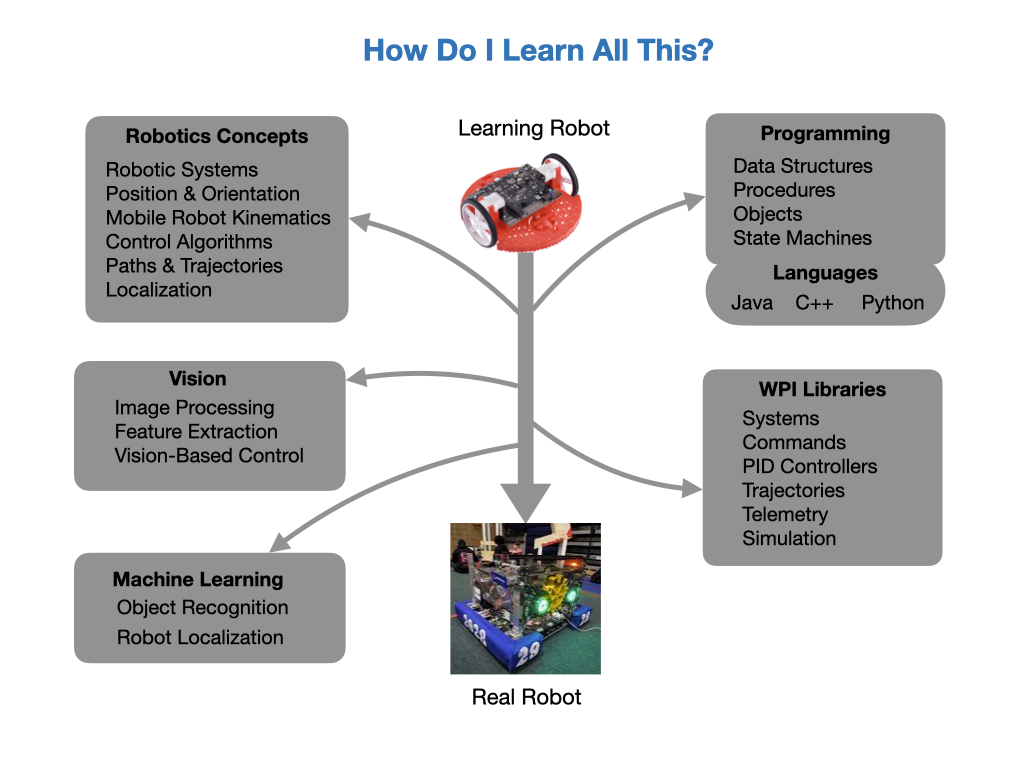
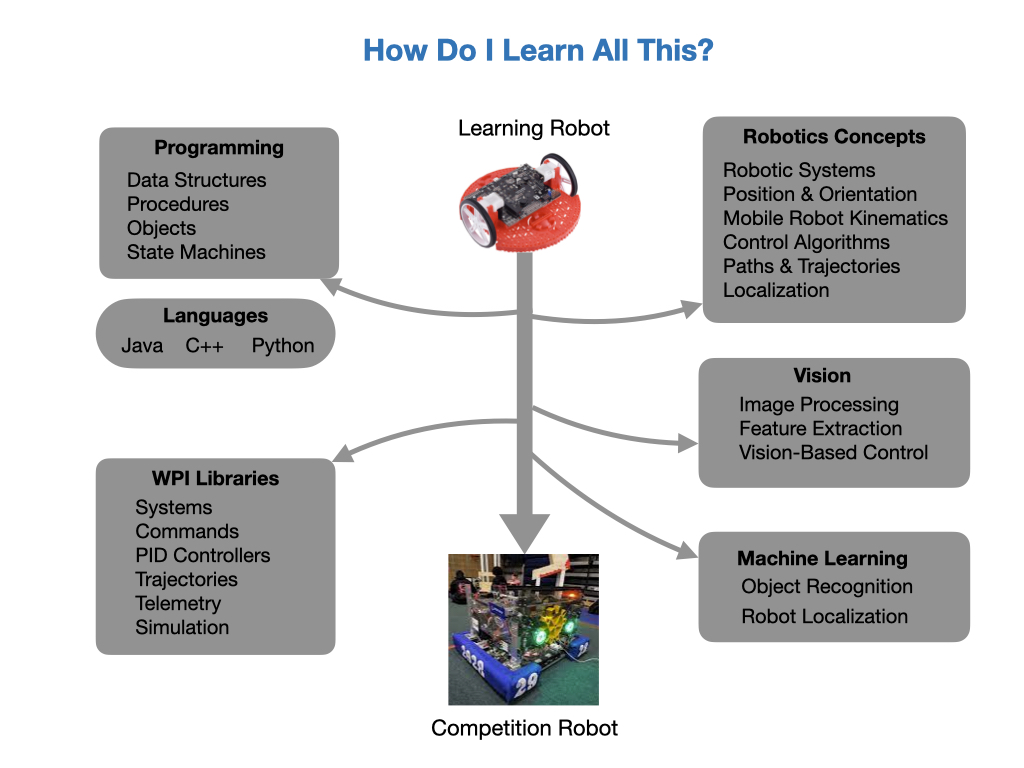
Course intro first draft

diff --git a/FRC-Tutorials/docs/Tutorials/courseOutline.md b/FRC-Tutorials/docs/Tutorials/courseOutline.md
@@ -3,14 +3,14 @@
 
 *FIRST For Inspiration and Recognition of Science and Technology*
 
-This course is about programming a robot to compete in the FIRST Robotics Competition.  The mechanical and electrical teams will design and build the physical robot and it's our job as a member of the programming team to get it to do something.  Without us, the robot will be sitting in the middle of the game field doing nothing.
+This course is about programming a robot that will compete in the FIRST Robotics Competition.  The mechanical and electrical teams will design and build the physical robot and it's our job as a member of the programming team to get it to do something.  Without us, the robot will be sitting in the middle of the game field doing nothing.
 
-The FIRST Robotics Competition (FRC) is setup as a large sporting event. So there are cheering crowds, match commentators, and large event screens that display the game scores and team rankings. The event is also filmed and streamed live out onto the Internet.  Teams compete in the specially constructed arena about the size of a basketball court and the goal is to score as many points as possible while at the same time preventing the other team from scoring.  The key difference is that instead of human players on the game field you have robots.  Each team gets to bring one custom built robot to the competition together with a driver and pit crew. It's similar to Formula One racing where you have a driver, and pit crew that maintains and fixes the robot between matches. It's not a gentle sport, robots are crashing into one another all the time both intentionally and unintentionally.  The robot is designed specifically to navigate the obstacles on the field manipulate the game pieces. The obstacles, game pieces and rules of the game change every year, so teams need to design and build a new robot each season.
+The FIRST Robotics Competition (FRC) is setup as a large sporting event. So there are cheering crowds, match commentators, and large event screens that display the game scores and team rankings. The event is also filmed and streamed live out onto the Internet.  Teams compete in the specially constructed arena that is about the size of a basketball court, with the goal of scoring as many points as possible while at the same time preventing the other team from scoring.  The key difference is that instead of having human players on the game field you have robots.  Each team gets to bring one custom built robot to the competition together with a driver and pit crew. It's similar to Formula One racing where you have a driver, and a pit crew that maintains and fixes the robot between matches. It's not a gentle sport, robots are crashing into one another all the time both intentionally and unintentionally.  The robot is designed specifically to navigate the obstacles on the field manipulate the game pieces. The obstacles, game pieces and rules of the game change every year, so teams need to design and build a new robot each season.
 
 The FIRST organization is world wide and its purpose is to inspire young people to enter the field of science and technology.  Instead of competing with a ball you're competing with math, science, and technology.  There are a lot of kids that aspire to be a professional sports players but only a very few can make it.  But to quote Dean Kaman, the founder of FIRST Robotics, *"FIRST Robotics is like a sport where everyone can turn pro"*.  
 
 ## Robots from a Programming Perspective
-A robot is a machine that senses and interacts with its environment.  Most robots will accept commands that tell it what tasks are to be completed. From a programming perspective you can think of a robot as a data driven machine.  Data is constantly being fed into it from onboard sensors, and command input devices such as game controllers.  The internal brain of the robot, which is usually some kind of *Single Board Computer (SBC)*, will interpret the data and make a decision on what to do.  Often, that decision is to make a movement that interacts with its surroundings.  That can mean moving forward several meters or perhaps picking up an object that is in front of it.
+A robot is a machine that senses and interacts with its environment.  Most robots will accept commands that tell it what tasks are to be completed. From a programming perspective you can think of a robot as a data driven machine.  Data is constantly being fed into it from onboard sensors that are detecting the world around it and from command input devices such as game controllers.  The internal brain of the robot, which is usually some kind of *Single Board Computer (SBC)*, will interpret the data and make a decision as to what to do next.  Often, that decision is to carry out a motion that interacts with its surroundings.  That may be moving forward several meters or perhaps picking up an object that is in front of it.  As it moves through the environment it's also getting data from internal sensors that tell it where it is what direction it's facing.
 
 ![Data Driven Machines](../images/CourseIntroduction/CourseIntroduction.001.jpeg)
 
@@ -20,12 +20,38 @@ So what do you need to learn in order to effectively program the robot for compe
 
 ![Need to Learn](../images/CourseIntroduction/CourseIntroduction.002.jpeg)
 
+## How do I Learn all this?
+When you're learning a new subject, especially one that has a lot of parts to it, you need to have a plan.  Our team has put together a set of lessons that will take you step-by-step through what you need to know to program the robot.  We're constantly adding to the lessons so if you're here for multiple seasons you'll learn more and more about robotics.  You'll go through the learning path multiple times, each time getting a better understanding of how things work.
 
 ![How to Learn](../images/CourseIntroduction/CourseIntroduction.003.jpeg)
-![Romi Robot](../images/CourseIntroduction/CourseIntroduction.004.jpeg)
-![VSCode IDE](../images/CourseIntroduction/CourseIntroduction.009.jpeg)
-![Github Repository](../images/CourseIntroduction/CourseIntroduction.010.jpeg)
-![FRC Documentation](../images/CourseIntroduction/CourseIntroduction.011.jpeg)
-![FRC Website](../images/CourseIntroduction/CourseIntroduction.012.jpeg)
 
-## References
+## The Romi Robot
+
+This is where we're going practice most of our programming skills.  Romi is a small but very capable robot.  It allows us to experiment with the various robotic techniques before deploying them on the competition robot.  Having the Romi crash into a wall is a lot less distructive than firing a 120 pound robot at it.
+
+As mentioned earlier there are three programming languages that we will learn, Java, Python, and C++.  We can run all three of these languages simultaneously on this little robot, each one processing its own task.
+
+![Romi Robot](../images/CourseIntroduction/CourseIntroduction.004.jpeg)
+
+## Code Editing and Libraries
+In order to write your program you're going to need a code editor.  A code editor is similar to a word processor except it is optimized to format program code instead of written text. It'll check the syntax of your code as you type it to make sure that it will compile properly. Each project is made up of multiple files that are also managed by the editor.  Once you're ready to try the program  out the compilation can be done in the editor before deploying it to the target computer.  The code editor used in FRC is *VSCode*.
+
+When you install the FRC version of VSCode it will also install the *WPILib* libraries.  These libraries will make it much easier for you to write code and get the robot up and running quickly.  When you write a program you usually don't start from scratch.  A lot of the work has already been done for you.  You just need to put the library components together in a smart and efficient manner.  A lot of competitions will come down to who has the most innovative software.
+
+![VSCode IDE](../images/CourseIntroduction/CourseIntroduction.009.jpeg)
+
+## Github
+When we write the code for the competition robot there are going to be multiple people working on the project.  In general, we would try to arrange it so as each person worked on a different part of the code, so you wouldn't all be updating the same file.  However, there are times when multiple people are going to have to update the same file, perhaps stepping on the each others work. At some point all of these changes are going to need to be merged together into a single project. Another thing we may want to do is keep multiple versions of our project so as we can load it onto different robots that might not have the same configuration.  So how do we manage all of this chaos?  
+
+GitHub is a code hosting platform for version control and collaboration. Since everything is up on the Cloud, it lets you and others work together on projects from anywhere. Each team member can have a complete copy of the entire project code on their own computer. Therefore, all of the people have access to all of the code all of the time. It tells you when a change was made, what the change was, and who made it.  GitHub is the code and documentation repository to the world.  It has over 83 million developers who contribute to the open source community. 
+
+![Github Repository](../images/CourseIntroduction/CourseIntroduction.010.jpeg)
+
+## Documentation
+One of the most important tools for any programmer is the documentation.  This lets us know how to structure the program and use the libraries.  Most documentation will show you a starter project that will point you in the right direction and verify the the software is installed correctly. When you first start out you will use this site a lot.  Even when you're an experienced FRC programmer you will reference this site constantly.  The main documentation Website for FRC is at [https://docs.wpilib.org](https://docs.wpilib.org).
+
+![FRC Documentation](../images/CourseIntroduction/CourseIntroduction.011.jpeg)
+
+The FRC documetation site has a lot of information that may not always be easy to find.  Our team has an additional Website called the [2928 Team Training Website](https://2928-frc-programmer-training.readthedocs.io/en/latest/) that takes you step-by-step through programming an FRC robot and has links to the FRC documentation site at relevant points. 
+
+![FRC Website](../images/CourseIntroduction/CourseIntroduction.012.jpeg)

diff --git a/FRC-Tutorials/docs/Tutorials/envSetup.md b/FRC-Tutorials/docs/Tutorials/envSetup.md
@@ -1,9 +1,12 @@
 # Progamming Environment Setup
 
-Setup the following components:
+Setup the following components: 
+[Dev Components]
 
-- VSCode with WPILib
+- VSCode
+- WPILib
 - Github accounts
+- Documentation
 
 ## Learning Objectives
 
